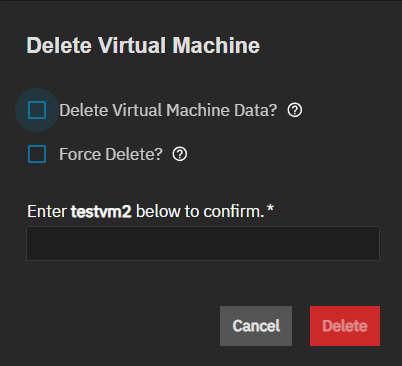
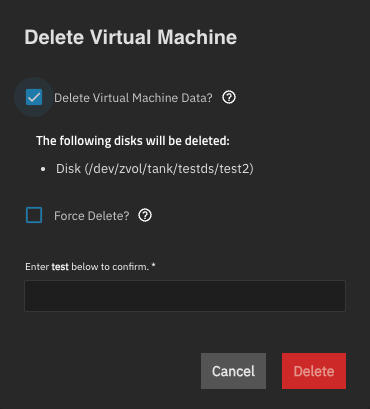
PD-2435 / 25.10 / Pd 2435 virtual machines delete dialogue updated (#4334)
* Update _index.md

* Update VirtualMachinesScreens.md

* Update DeleteVirtualMachineDialog.png

---------

diff --git a/content/SCALETutorials/VirtualMachines/_index.md b/content/SCALETutorials/VirtualMachines/_index.md
@@ -177,6 +177,25 @@ The **Running** toggle and <i class="material-icons" aria-hidden="true" title="S
 Use the **Power Off** button instead.
 {{< /hint >}}
 
+### Deleting a Virtual Machine
+
+To delete a VM, first stop it if it is running, then click <i class="material-icons" aria-hidden="true" title="Delete">delete</i> **Delete** on the expanded VM details screen.
+
+The **Delete Virtual Machine** dialog opens with options to control what data is removed.
+
+{{< trueimage src="/images/SCALE/Virtualization/DeleteVirtualMachineDialog.png" alt="Delete Virtual Machine Dialog" id="Delete Virtual Machine Dialog" >}}
+
+**Delete Virtual Machine Data** removes the zvols and data associated with the VM. When selected, the dialog displays a list of disk and raw file devices to delete.
+
+{{< hint type="warning" >}}
+Deleting a VM with **Delete Virtual Machine Data** selected results in permanent data loss if the data is not backed up.
+Do not select this option if you want to keep the VM zvols intact for use with another VM or for data recovery.
+{{< /hint >}}
+
+**Force Delete** ignores the VM status during the delete operation. Only select this if the VM is in an undefined state and cannot be stopped normally.
+
+Enter the VM name in the confirmation field to enable the **Delete** button, then click **Delete** to remove the VM.
+
 ## Installing an OS
 
 After configuring the VM in TrueNAS and an OS <file>.iso</file> file is attached, start the VM and begin installing the operating system.

diff --git a/content/SCALEUIReference/VirtualMachinesScreens.md b/content/SCALEUIReference/VirtualMachinesScreens.md
@@ -64,7 +64,7 @@ The **Delete Virtual Machine** dialog shows options when deleting the VM and rem
 {{< truetable >}}
 | Setting | Description |
 |---------|-------------|
-| **Delete Virtual Machine Data** | Removes the data associated with this virtual machine. Deleting a VM results in data loss if the data is not backed up. Do not select this option to keep the VM data intact. |
+| **Delete Virtual Machine Data** | Removes the data associated with this virtual machine. When selected, displays a list of disk and raw file devices to delete. Deleting a VM results in data loss if the data is not backed up. Do not select this option to keep the VM data intact. |
 | **Force Delete**| Ignores the virtual machine status during the delete operation. Do not select this option to prevent deleting the VM when it is still active or the state is undefined. |
 | **Enter *vmname* below to confirm** | Blank text entry field to manually enter the name of the VM to delete. This must match the name shown in the dialog. |
 {{< /truetable >}}
